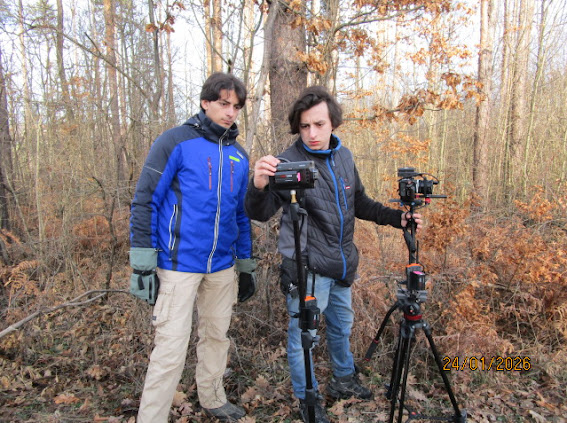
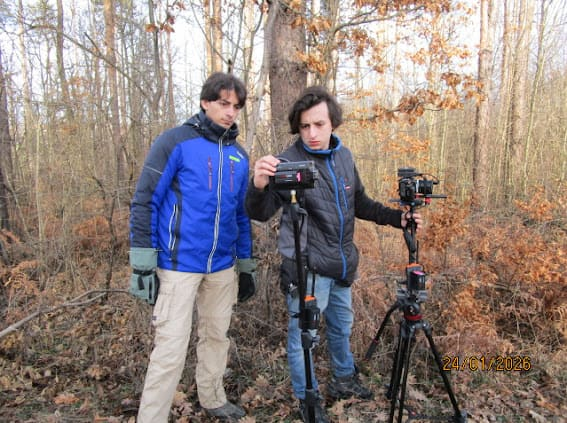
perf: compress public images, convert photo PNGs to JPG (38MB to 6MB)

diff --git a/src/data/siteContent.ts b/src/data/siteContent.ts
@@ -50,9 +50,9 @@ export const siteContent = {
         years: "2024 - 2025",
         desc: "Cutting and shooting art-world coverage for Bulgaria's largest cultural platform. Gallery openings, artist profiles, and social-first verticals - often same-day turnarounds.",
         items: [
-          { url: "https://www.instagram.com/reel/DP1d4V7DE5n/", thumb: "/art-portal-cover.png", label: "Art Portal - Reel · 2025", isVertical: true },
-          { url: "https://www.instagram.com/reel/DQwwvU7CGVI/", thumb: "/big-praz-1.png", label: "Big Praz - Announcement · 2025", isVertical: true },
-          { url: "https://www.facebook.com/share/v/1DQJKSR9fR/", thumb: "/big-praz-2.png", label: "Big Praz - Live Reel · 2025", isVertical: true },
+          { url: "https://www.instagram.com/reel/DP1d4V7DE5n/", thumb: "/art-portal-cover.jpg", label: "Art Portal - Reel · 2025", isVertical: true },
+          { url: "https://www.instagram.com/reel/DQwwvU7CGVI/", thumb: "/big-praz-1.jpg", label: "Big Praz - Announcement · 2025", isVertical: true },
+          { url: "https://www.facebook.com/share/v/1DQJKSR9fR/", thumb: "/big-praz-2.jpg", label: "Big Praz - Live Reel · 2025", isVertical: true },
         ],
       },
       {
@@ -81,9 +81,9 @@ export const siteContent = {
     title: "Selected Stills.",
     hint: "SCROLL → hold to scrub",
     items: [
-      { src: "/art-portal-cover.png", alt: "Art Portal still", caption: "Art Portal - Gallery coverage", year: "2025" },
-      { src: "/big-praz-1.png", alt: "Big Praz Show poster", caption: "Big Praz - Announcement", year: "2025" },
-      { src: "/big-praz-2.png", alt: "Big Praz rehearsal still", caption: "Big Praz - Stage", year: "2025" },
+      { src: "/art-portal-cover.jpg", alt: "Art Portal still", caption: "Art Portal - Gallery coverage", year: "2025" },
+      { src: "/big-praz-1.jpg", alt: "Big Praz Show poster", caption: "Big Praz - Announcement", year: "2025" },
+      { src: "/big-praz-2.jpg", alt: "Big Praz rehearsal still", caption: "Big Praz - Stage", year: "2025" },
       { src: "/1000000570.png", alt: "Portrait of Mihail on set", caption: "On set - Sofia", year: "2024" },
       { src: "https://img.youtube.com/vi/_ajdklDn5_k/maxresdefault.jpg", alt: "Silent Lifts still", caption: "Замлъкналите лифтове - Vitosha", year: "2026" },
       { src: "https://img.youtube.com/vi/GpF_UJrMVxk/maxresdefault.jpg", alt: "Zasnet still", caption: "Заснет - Night interior", year: "2024" },

diff --git a/src/data/projects.ts b/src/data/projects.ts
@@ -45,7 +45,7 @@ export const projects: Project[] = [
     gallery: [
       { src: "https://img.youtube.com/vi/_ajdklDn5_k/maxresdefault.jpg", caption: "Vitosha ridge - empty chairs at golden hour", alt: "Vitosha lifts" },
       { src: "/1000000570.png", caption: "Portrait - on location", alt: "On set portrait" },
-      { src: "/art-portal-cover.png", caption: "Stills - archival poster", alt: "Poster" },
+      { src: "/art-portal-cover.jpg", caption: "Stills - archival poster", alt: "Poster" },
     ],
   },
   {
@@ -73,7 +73,7 @@ export const projects: Project[] = [
     ],
     gallery: [
       { src: "https://img.youtube.com/vi/jGJNPgaQiJE/maxresdefault.jpg", caption: "Interior - kitchen light at 6am", alt: "Eastern Wind still" },
-      { src: "/big-praz-1.png", caption: "Lookbook - Eastern Wind", alt: "Poster" },
+      { src: "/big-praz-1.jpg", caption: "Lookbook - Eastern Wind", alt: "Poster" },
     ],
   },
   {
@@ -101,7 +101,7 @@ export const projects: Project[] = [
     ],
     gallery: [
       { src: "https://img.youtube.com/vi/_ajdklDn5_k/maxresdefault.jpg", caption: "Zasnet - night interior", alt: "Zasnet still" },
-      { src: "/big-praz-2.png", caption: "Set - monitor", alt: "On monitor" },
+      { src: "/big-praz-2.jpg", caption: "Set - monitor", alt: "On monitor" },
     ],
   },
   {
